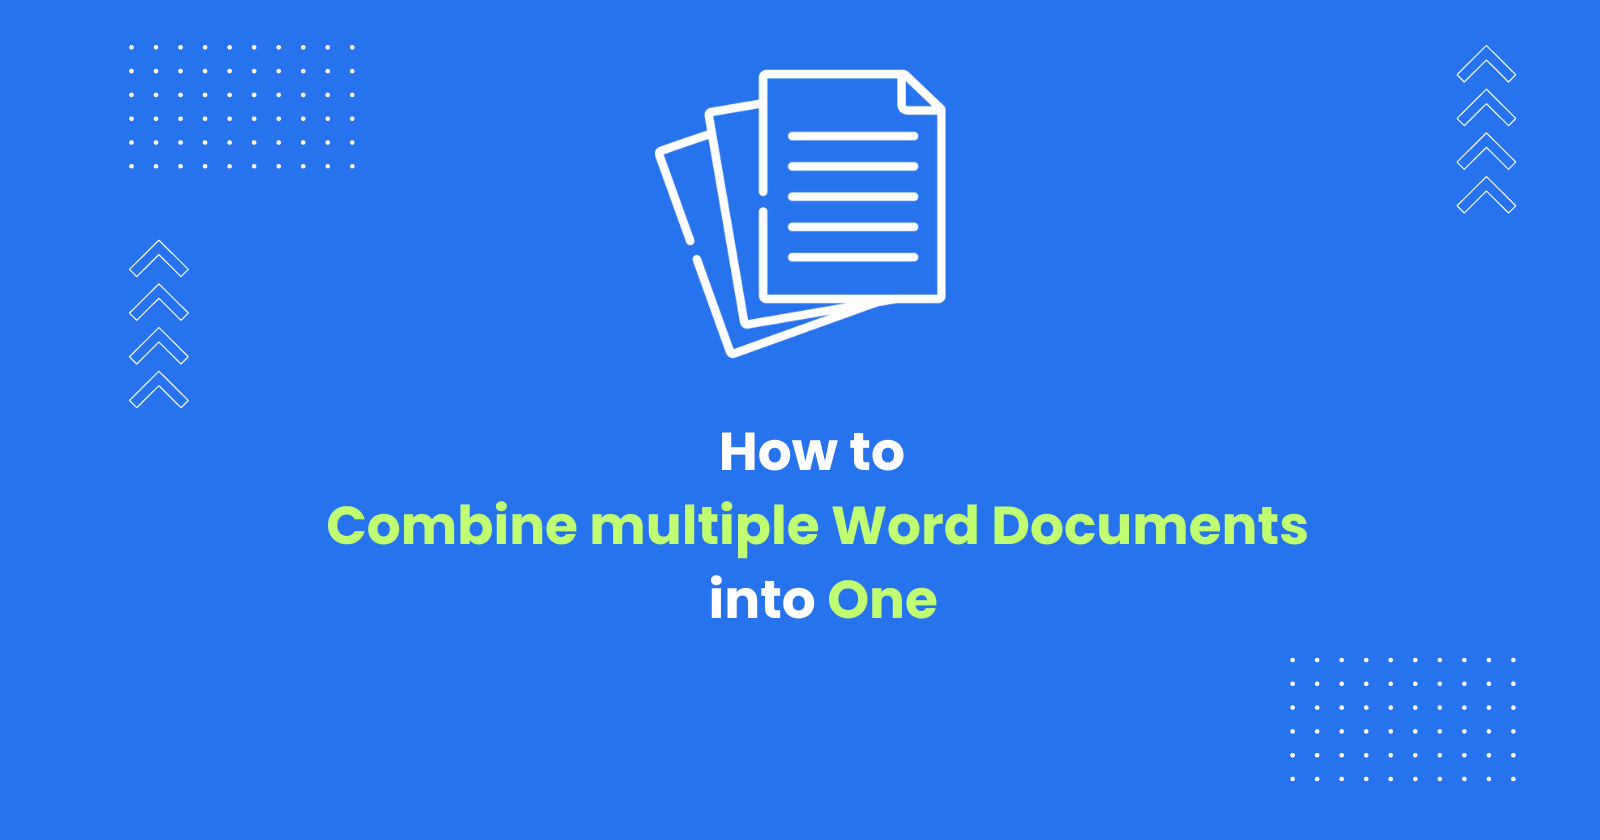
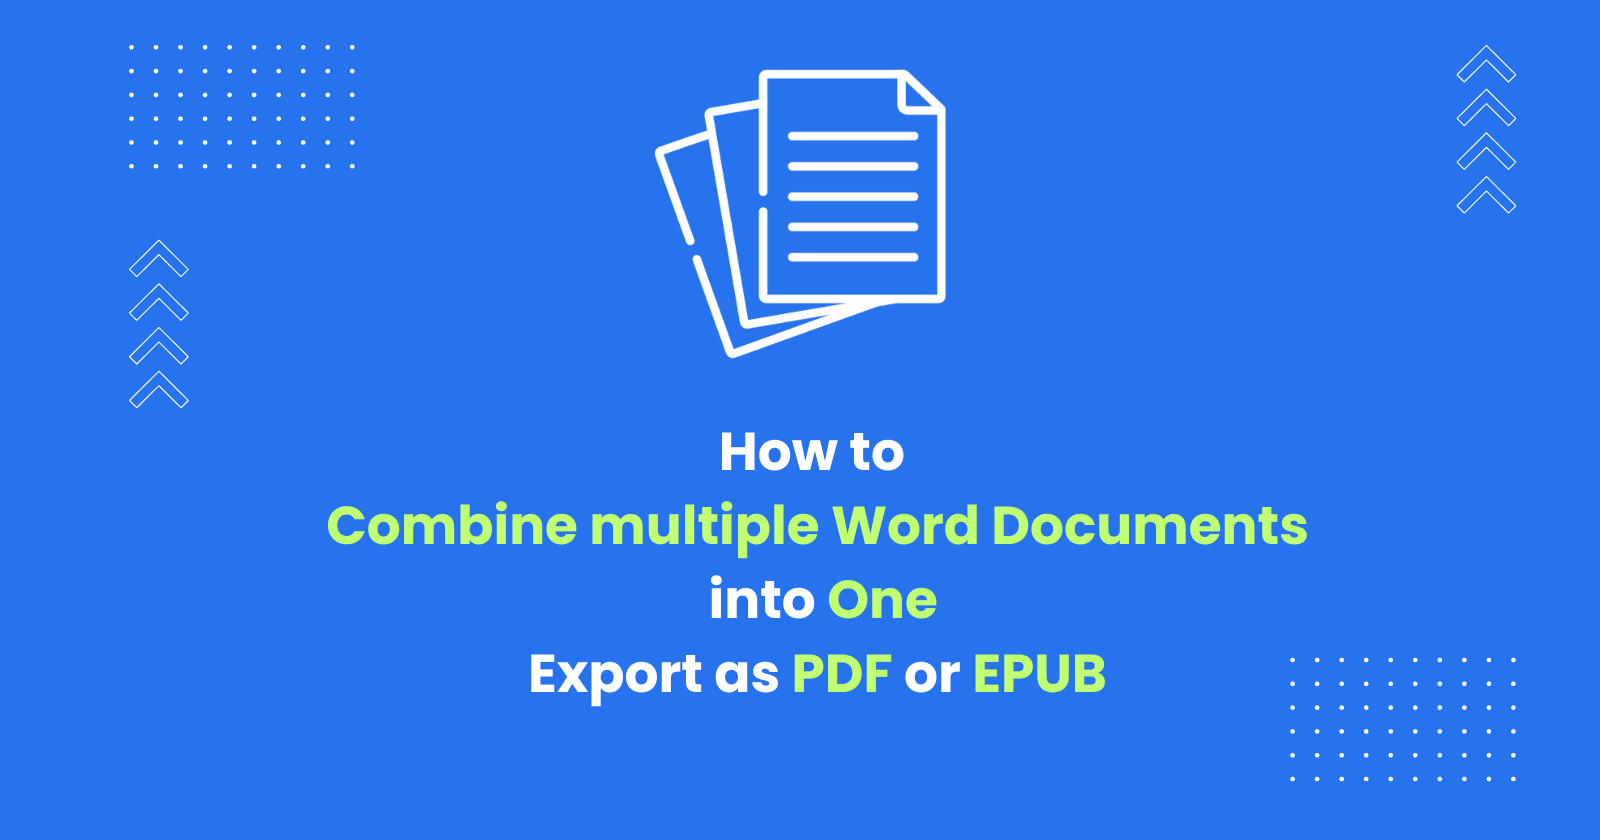
Added content merge word documents

Changed region(s): [[0.3125, 0.7738, 0.6875, 0.8357]]

diff --git a/src/content/post/combine-multiple-word-documents-into-one.md b/src/content/post/combine-multiple-word-documents-into-one.md
@@ -1,14 +1,148 @@
 ---
 publishDate: 2024-08-02T14:01:13.625Z
 updateDate: 2024-08-02T14:01:13.626Z
-draft: true
+draft: false
 showToc: true
-title: Combine Multiple Word Documents into One
+title: How to Combine Multiple Word Documents into One
 slug: combine-multiple-word-documents-into-one
-excerpt: "-"
+excerpt: "Learn how to combine multiple Word Documents into one and export as PDF"
 type: post
+image: https://www.docstomarkdown.pro/open-graph-combine-multiple-word-docs-into-one.png
 ---
 
-## Combining Multiple Word Documents Using Insert Option
+Combining multiple Word documents into a single cohesive file can significantly enhance productivity and streamline workflows, especially when dealing with complex projects or extensive documentation. Whether you need to merge reports, consolidate research, or create comprehensive manuals, having an efficient method to combine documents is essential. 
 
-## Combining Multiple Word Documents Using the Merge Docs Pro Add on
+In this article, I'll explain two primary approaches for merging Word documents:
+
+- Utilizing Microsoft Word's built-in insert feature 
+- Using the third party add-on: Merge Docs Pro. 
+
+Each method offers distinct advantages and potential drawbacks, catering to different needs and preferences. By understanding the strengths and limitations of these approaches, you can make an informed decision on the best tool to simplify your document management tasks.
+
+<!-- toc -->
+
+## Combining Multiple Word Documents into One Using the Insert Option
+
+If you're working with Microsoft Word and need to merge several documents, you can use the built-in Insert feature. Follow these steps to combine your files:
+
+1. Select the *Insert* tab from the Ribbon.
+
+   ![Selecting Insert Tab](images/image-16.png)
+
+2. Click on the *Object* option in the Text group, and then choose *Text from File* from the drop-down menu.
+
+   ![Object Option](images/image-17.png)
+
+3. The file selection window will appear. You can choose from various file formats, including Word Documents, RTF files, and ODT Documents.
+
+   ![File Selection Window](images/image-18.png)
+
+4. Select the files you want to merge and click *Insert*. All the selected documents will be added to the current Word document.
+
+**Note:** You can also select Markdown files, but be aware that Markdown files will be inserted as plain text in the Markdown syntax rather than being converted to rich text format.
+
+### Pros of using Insert Option
+
+- **Built-In Feature**: No need for additional software or installation.
+- **Easy Access**: Directly available within the Microsoft Word application.
+- **Learning Curve** - No additional time is needed to learn as it is natively available in Word.
+
+### Cons of using Insert Option
+
+- **Merge Order** - Manual control over the merge order is challenging; you may need to rename files to ensure they are merged in the desired sequence.
+- **Page Breaks** - It is not possible to automatically insert page breaks between the merged documents, which may require manual adjustments to ensure proper separation and formatting.
+- **Formatting Limitations** - Markdown files will not be converted into rich text format, potentially affecting the appearance of the merged document.
+- **Format Consistency** - The formatting of documents may not remain consistent after merging, which can require additional adjustments.
+- **Export Limitations** - It is not possible to automatically export the merged document as a PDF or EPUB and download them automatically. Manual export and download are required.
+
+
+## Merging Word Documents with a Third-Party Add-On
+
+Another option for merging multiple Word documents into one is to use the Merge Docs Pro Google Workspace add-on. This add-on offers several advantages over the native insert option:
+
+- **Control Over Merge Order** - You can easily reorder documents in the Google Sheet where they are listed, providing better control over the final merge order.
+- **Format Consistency** - The formatting of documents remains consistent after merging and doesn't require any additional adjustments.
+- **More File Types support** - Merge various types of files, such as Markdown, HTML, and others. These files will be automatically converted into rich text format, making it easier to combine output files from different toolsets into a cohesive single Word document.
+- **Page Breaks** - Automatically insert page breaks between documents to enhance readability and give the merged document a professional appearance.
+- **Automatic Export** - Export the merged document as a PDF or EPUB for easier sharing and distribution.
+- **Download as Word File** - Download the merged document in Word format if needed.
+- **Header and Footer Management** - Add headers and footers to the merged document, eliminating the need to include them in each individual document.
+
+
+To get started, you need to install the [Merge Docs Pro](https://workspace.google.com/marketplace/app/merge_docs_pro/61337277026) add-on from the Google Workspace Marketplace.
+
+<div align="center">
+<a href="https://workspace.google.com/marketplace/app/merge_docs_pro/61337277026?pann=b" target="_blank" aria-label="Get it from the Google Workspace Marketplace">
+  <img alt="Google Workspace Marketplace badge" alt-text="Get it from the Google Workspace Marketplace" src="https://workspace.google.com/static/img/marketplace/en/gwmBadge.svg?" style="height: 68px">
+</a></div>
+
+Once the add-on is installed, 
+1. [Open a new Google Sheets](https://sheets.new) <i class="fa fa-external-link" aria-hidden="true" style="color:blue"></i>&nbsp;.
+2. Launch the Merge Docs Pro add-on from the menu *Extensions* -> *Merge Docs Pro* -> *Merge Multiple Docs* option. It will display the add-on sidebar as follows.
+
+![alt text](images/image-19.png)
+
+To start the merge process, follow the steps:
+
+
+1. Click on the **Add Column Headers to Get Started** button. This will add headers to the Google Sheet, guiding you in correctly entering the input data.
+2. If your Word files and other input files, such as Markdown files, are already stored in Google Drive, click on the **Select Google Docs or Drive Files to Merge** button. This will open the file picker, allowing you to select and add files to the input sheet for merging.
+3. If your Word files and other input files are on your local drive, click on the **Upload Local Files to Merge** option. This will open the file selector. Choose all the files you want to upload and click OK. The files will be uploaded to Google Drive and listed in the sheet for merging. You can select various file types, such as Markdown, DOCX, HTML, RTF, ODT, and others.
+4. To customize the merge order, reorder the entries in the Google Sheet as needed. You can also specify which files should be included in the merged document. To exclude a document from the merge, set the corresponding Merge Document option to 'No'.
+
+Next, let's explore how to customize the merge operation and initiate the merging process.
+
+### Selecting the Merge Destination
+
+The Merge Docs Pro add-on supports three merge destination options:
+
+![Merge Destination](images/image-20.png)
+
+1. **Create a New Document**: This option merges all your documents into a new, blank document.  
+*Use this option when you want to start with a clean slate and combine multiple documents into a fresh file without any pre-existing content.*
+2. **Use an Existing Document as a Template**: This option allows you to use an existing document as a template. The headers and footers from this document will be copied to the newly created merged document.  
+*Choose this option if you need to maintain consistent formatting or branding by incorporating headers and footers from a pre-existing document.*
+3. **Merge into an Existing Document**: This option merges the selected documents into an existing document of your choice.  
+*Select this option when you want to append or integrate new content into an existing document, preserving its current layout and formatting.*
+
+### Customizing the Merge Operation (Automatic File Exports and File Downloads)
+
+You can customize the merge operation using various options provided by the Merge Docs Pro add-on.
+
+![Merge Options](images/image-21.png)
+
+- **Large File Mode**: Allocates up to 6 minutes to read and merge each file, allowing for the inclusion of documents with large amounts of text and media.
+- **Add Page Break Before Each Merge**: Inserts a page break before merging each document to improve readability and ensure clear separation between documents.
+- **Save Merged Docs as Word**: Automatically creates a Word file from the merged Google Docs, providing an easy-to-edit format.
+- **Save Merged Docs as PDF**: Automatically generates a PDF file from the merged Google Docs, which is ideal for sharing and preserving document formatting.
+- **Save Merged Docs as ePUB**: Automatically creates an ePUB file from the merged Google Docs, making it suitable for eReaders.
+- **Auto Download Output Files**: Automatically downloads the output files, such as Word, PDF, or ePUB files, directly to your device.
+
+### Merging the Documents
+
+When you're ready, click on the *Merge Docs* button. The documents will be merged into one and the output file(s) will be created as per your configuration. Also, the files will be downloaded automatically. 
+
+### Pros of Using Merge Docs Pro Add-On
+
+- **Merge order control** - Reorder documents and customize the merge sequence easily.
+- **Automatic Formatting** - Adds page breaks and supports headers and footers automatically.
+- **Versatile File Types** - Merges various formats, including Markdown and HTML, converting them to rich text.
+- **File Exports** - Exports merged documents to Word, PDF, and EPUB formats automatically.
+
+
+### Cons of Using Merge Docs Pro Add-On
+
+- **Learning Curve** - May require time to master the add-on’s features.
+- **Google Workspace Requirement** - Requires a Google Workspace environment.
+
+## Conclusion
+
+Combining multiple Word documents can be achieved using either Microsoft Word's native insert feature or a third-party add-on like Merge Docs Pro. 
+
+Both methods have their strengths and weaknesses. The native insert feature provides a basic method for merging documents but may require manual adjustments for formatting and page breaks. Merge Docs Pro offers advanced features, including automatic page breaks and customizable merge orders, but requires a Google Workspace environment. 
+
+Choose the method that best meets your needs for merging documents.
+
+## See Also
+
+- [Combine Google Docs into One and Export to PDF](/merge-multiple-google-docs-into-one-and-export/)
